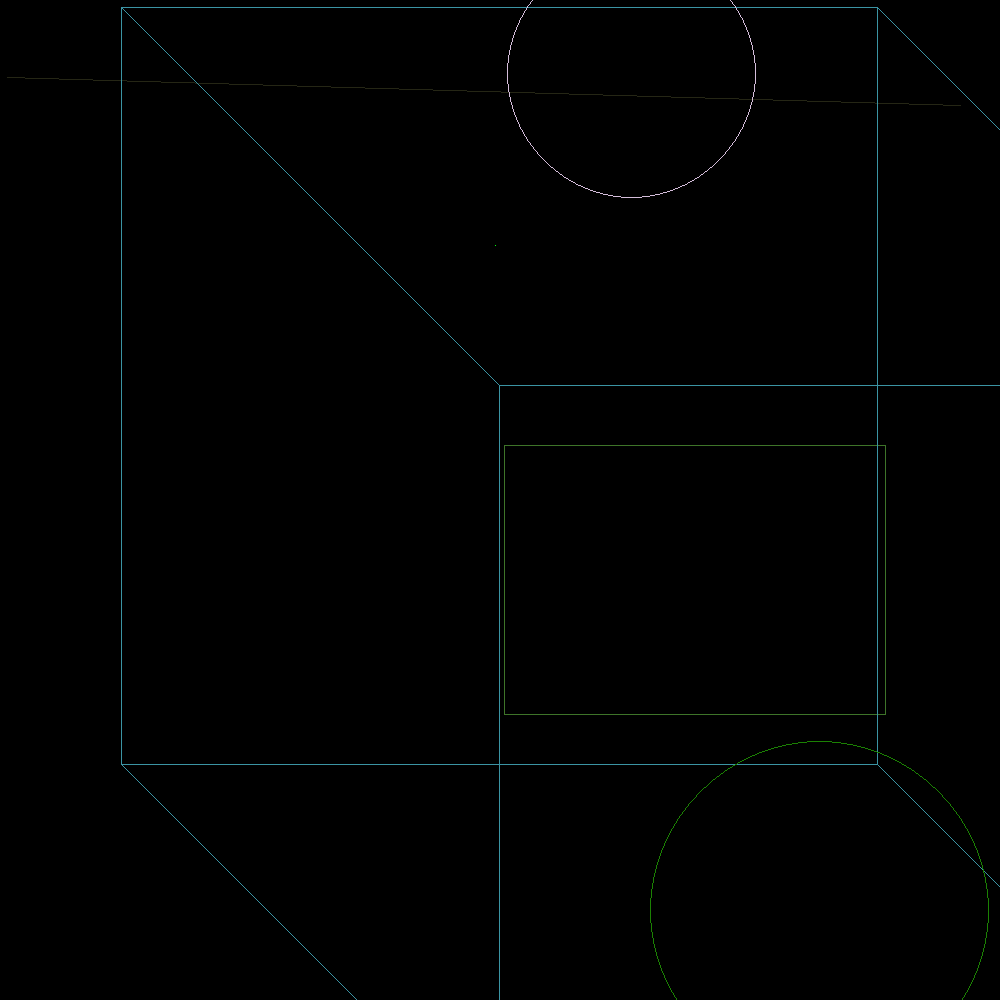
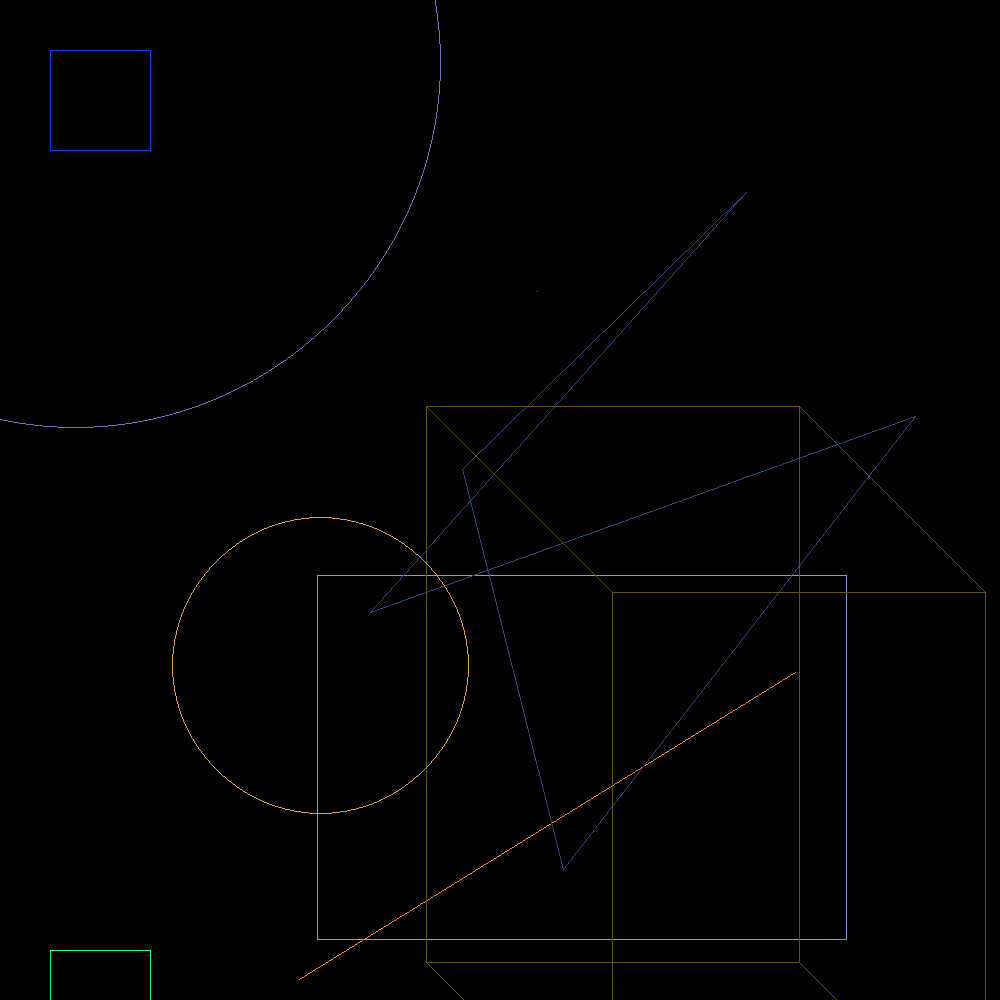
feat: pentagon drawing

Changed region(s): [[0.496, 0.558, 0.527, 0.589], [0.496, 0.434, 0.527, 0.465]]

diff --git a/src/geometrical_shapes.rs b/src/geometrical_shapes.rs
@@ -8,8 +8,8 @@ pub struct Triangle(Point, Point, Point, Option<Color>);
 pub struct Line(Point, Point, Option<Color>);
 pub struct Rectangle(Point, Point, Option<Color>);
 pub struct Circle(Point, i32, Option<Color>);
-
-pub struct Cube(Point,Point,Option<Color>);
+pub struct Cube(Point, Point, Option<Color>);
+pub struct Pentagon(Point, Point, Point, Point, Point, Option<Color>);
 
 pub trait Displayable {
     fn display(&mut self, x: i32, y: i32, color: Color);
@@ -85,7 +85,7 @@ impl Point {
     }
 
     pub fn distance(&self, point: &Point) -> f64 {
-        let (dx, dy) = ((point.0 - self.0)as f64, (point.1 - self.1)as f64);
+        let (dx, dy) = ((point.0 - self.0) as f64, (point.1 - self.1) as f64);
         (dx * dx + dy * dy).sqrt()
     }
 }
@@ -172,7 +172,7 @@ impl Drawable for Line {
     }
 }
 impl Drawable for Circle {
-    fn color(&mut self, color: Option<Color>)  {
+    fn color(&mut self, color: Option<Color>) {
         let mut rng = rand::thread_rng();
         let range = Uniform::from(0..255);
 
@@ -181,7 +181,7 @@ impl Drawable for Circle {
     }
 
     fn draw(&self, image: &mut Image) {
-        let Circle(Point(cx, cy,_), radius, _) = self;
+        let Circle(Point(cx, cy, _), radius, _) = self;
         let mut x = *radius;
         let mut y = 0;
         let mut err = 0;
@@ -215,17 +215,17 @@ impl Drawable for Circle {
             }
 
             y += 1;
-            err += 1 + 2*y;
-            if 2*(err - x) + 1 > 0 {
+            err += 1 + 2 * y;
+            if 2 * (err - x) + 1 > 0 {
                 x -= 1;
-                err += 1 - 2*x;
+                err += 1 - 2 * x;
             }
         }
     }
 }
 impl Circle {
-    pub fn new(point : Point, radius: i32) -> Self {
-        let mut  c = Circle(point, radius, None);
+    pub fn new(point: Point, radius: i32) -> Self {
+        let mut c = Circle(point, radius, None);
         c.color(None);
         c
     }
@@ -236,11 +236,11 @@ impl Circle {
         let range_y = Uniform::from(0..height);
 
         // generate random value
-       let center =  Point::new(rng.sample(range_x), rng.sample(range_y));
-       let radius = rng.sample(Uniform::from(0..width.min(height)/2)); 
-       Circle::new(center, radius)}
-
+        let center = Point::new(rng.sample(range_x), rng.sample(range_y));
+        let radius = rng.sample(Uniform::from(0..width.min(height) / 2));
+        Circle::new(center, radius)
     }
+}
 impl Cube {
     pub fn new(p1: &Point, p2: &Point) -> Self {
         let mut cube = Cube(Point(p1.0, p1.1, None), Point(p2.0, p2.1, None), None);
@@ -262,17 +262,17 @@ impl Drawable for Cube {
         let top_left = &first_rect.0;
         let bottom_right = &first_rect.1;
         let (top_right, bottom_left) = first_rect.other_point(&top_left, &bottom_right);
-        let m =  top_left.distance(&top_right).div(2.0) as i32;
+        let m = top_left.distance(&top_right).div(2.0) as i32;
 
         let x = top_left.0 + m;
         let y = top_left.1 + m;
 
-        let top_left1 = Point(x,y,None);
-        
-        let x1 = top_right.0+ m;
-        let y1 = bottom_right.1 +m;
+        let top_left1 = Point(x, y, None);
 
-        let bottom_right1 = Point(x1,y1,None);
+        let x1 = top_right.0 + m;
+        let y1 = bottom_right.1 + m;
+
+        let bottom_right1 = Point(x1, y1, None);
         let mut second_rect = Rectangle::new(&top_left1, &bottom_right1);
 
         second_rect.color(Some(color.clone()));
@@ -280,24 +280,21 @@ impl Drawable for Cube {
 
         let (top_right1, bottom_left1) = second_rect.other_point(&top_left1, &bottom_right1);
 
+        let mut line = Line::new(&top_left1, &top_left);
+        line.color(Some(color.clone()));
+        line.draw(image);
 
-       let mut line = Line::new(&top_left1, &top_left);
-       line.color(Some(color.clone()));
-       line.draw(image);
+        let mut line = Line::new(&bottom_left, &bottom_left1);
+        line.color(Some(color.clone()));
+        line.draw(image);
 
-       let mut line = Line::new(&bottom_left, &bottom_left1);
-       line.color(Some(color.clone()));
-       line.draw(image);
+        let mut line = Line::new(&top_right, &top_right1);
+        line.color(Some(color.clone()));
+        line.draw(image);
 
-       let mut line = Line::new(&top_right, &top_right1);
-       line.color(Some(color.clone()));
-       line.draw(image);
-
-       let mut line = Line::new(&bottom_right, &bottom_right1);
-       line.color(Some(color.clone()));
-       line.draw(image);
-
-
+        let mut line = Line::new(&bottom_right, &bottom_right1);
+        line.color(Some(color.clone()));
+        line.draw(image);
     }
     fn color(&mut self, color: Option<Color>) {
         let mut rng = rand::thread_rng();
@@ -305,5 +302,63 @@ impl Drawable for Cube {
 
         let random_color = Color::rgb(rng.sample(range), rng.sample(range), rng.sample(range));
         self.2 = color.or(Some(random_color));
+    }
+}
+
+impl Pentagon {
+    pub fn new(p1: &Point, p2: &Point, p3: &Point, p4: &Point, p5: &Point) -> Self {
+        let mut pentagon = Pentagon(
+            Point(p1.0, p1.1, None),
+            Point(p2.0, p2.1, None),
+            Point(p3.0, p3.1, None),
+            Point(p4.0, p4.1, None),
+            Point(p5.0, p5.1, None),
+            None,
+        );
+        pentagon.color(None);
+        pentagon
+    }
+
+    pub fn random(width: i32, height: i32) -> Self {
+        Pentagon::new(
+            &Point::random(width, height),
+            &Point::random(width, height),
+            &Point::random(width, height),
+            &Point::random(width, height),
+            &Point::random(width, height),
+        )
+    }
+}
+
+impl Drawable for Pentagon {
+    fn draw(&self, image: &mut Image) {
+        let color = self.5.as_ref().unwrap();
+        let mut line = Line::new(&self.0, &self.1);
+        line.color(Some(color.clone()));
+        line.draw(image);
+
+        let mut line = Line::new(&self.1, &self.2);
+        line.color(Some(color.clone()));
+        line.draw(image);
+
+        let mut line = Line::new(&self.2, &self.3);
+        line.color(Some(color.clone()));
+        line.draw(image);
+
+        let mut line = Line::new(&self.3, &self.4);
+        line.color(Some(color.clone()));
+        line.draw(image);
+
+        let mut line = Line::new(&self.4, &self.0);
+        line.color(Some(color.clone()));
+        line.draw(image);
+    }
+
+    fn color(&mut self, color: Option<Color>) {
+        let mut rng = rand::thread_rng();
+        let range = Uniform::from(0..255);
+
+        let random_color = Color::rgb(rng.sample(range), rng.sample(range), rng.sample(range));
+        self.5 = color.or(Some(random_color));
     }
 }

diff --git a/src/main.rs b/src/main.rs
@@ -11,14 +11,15 @@ fn main() {
 
     gs::Point::random(image.width, image.height).draw(&mut image);
 
-    // let rectangle = gs::Rectangle::new(&gs::Point::new(150, 150), &gs::Point::new(50, 50));
-    // rectangle.draw(&mut image);
+    let rectangle = gs::Rectangle::new(&gs::Point::new(150, 150), &gs::Point::new(50, 50));
+    rectangle.draw(&mut image);
 
-    // let rectangle = gs::Rectangle::new(&gs::Point::new(150, 950), &gs::Point::new(50, 1030));
-    // rectangle.draw(&mut image);
+    let rectangle = gs::Rectangle::new(&gs::Point::new(150, 950), &gs::Point::new(50, 1030));
+    rectangle.draw(&mut image);
 
     gs::Rectangle::random(image.width, image.height).draw(&mut image);
     gs::Cube::random(image.width, image.height).draw(&mut image);
+    gs::Pentagon::random(image.width, image.height).draw(&mut image);
 
     // let triangle = gs::Triangle::new (
     //         &gs::Point::new(500, 500),
